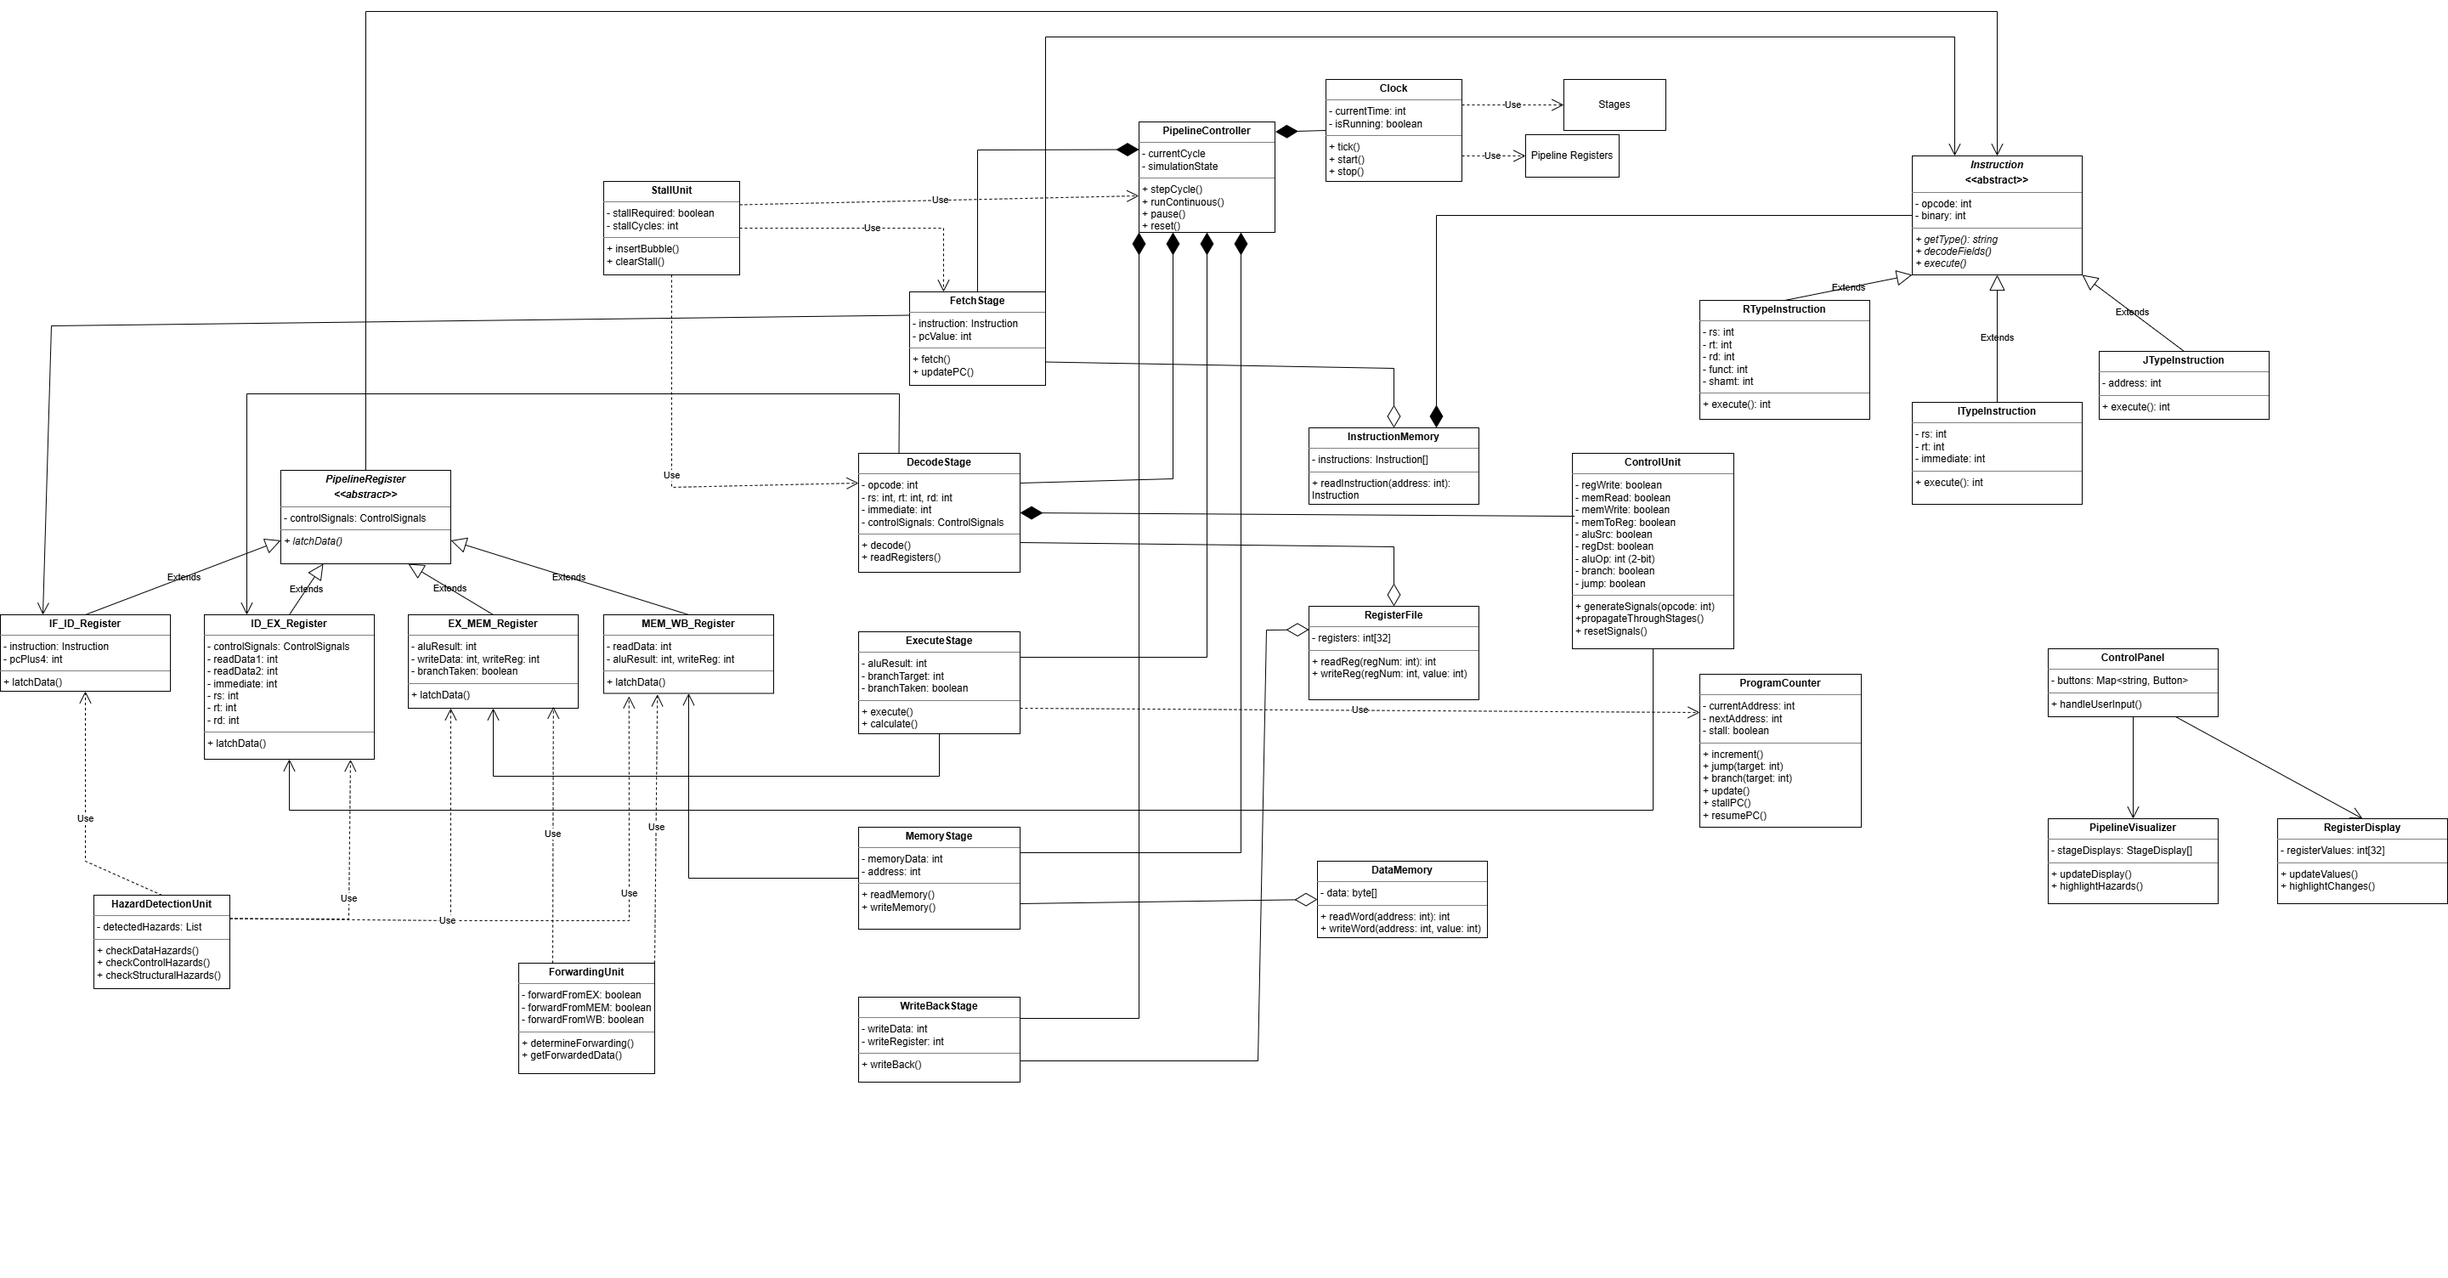
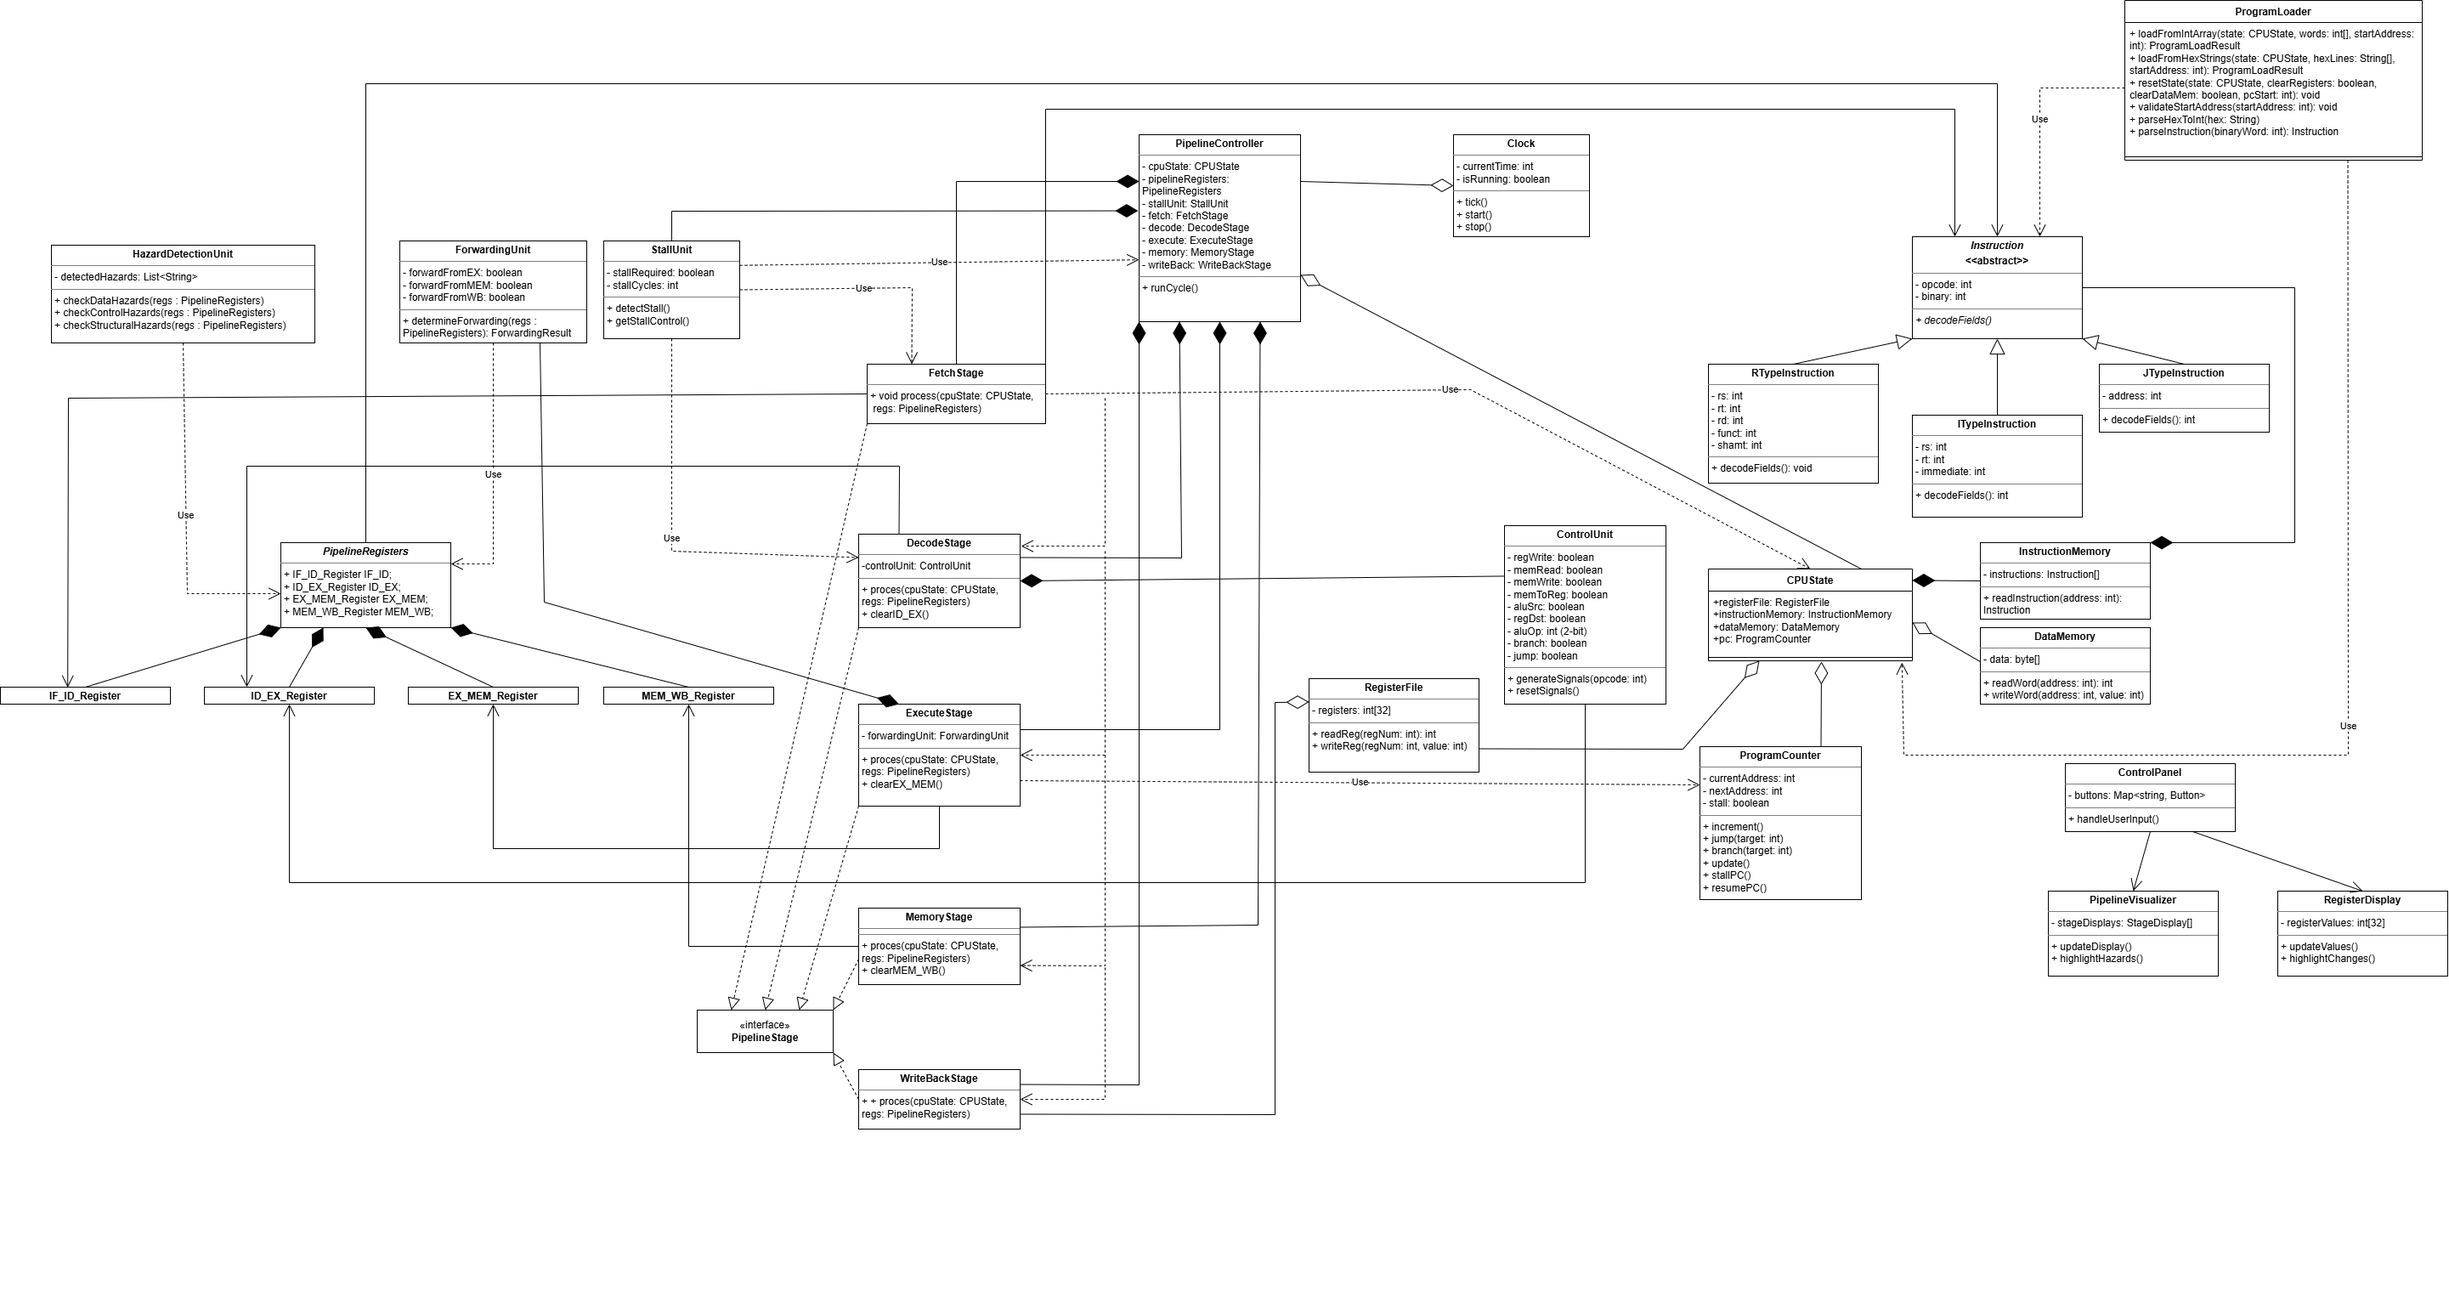
latest updates

diff --git a/Documentation/main.tex b/Documentation/main.tex
@@ -673,7 +673,7 @@ public abstract class Instruction {
 }
 \end{lstlisting}
 
-\subsubsection*{R-Type Instruction}
+\subsection*{R-Type Instruction}
 
 The \textbf{RTypeInstruction} class extracts its fields (two source registers, destination register, shift amount and function code) using bit shifting and masking:
 
@@ -689,7 +689,7 @@ public void decodeFields() {
 }
 \end{lstlisting}
 
-\subsubsection*{I-Type Instruction}
+\subsection*{I-Type Instruction}
 
 The \textbf{ITypeInstruction} class decodes the 16-bit immediate field, ensuring sign-extension where necessary:
 
@@ -704,7 +704,7 @@ public void decodeFields() {
 }
 \end{lstlisting}
 
-\subsubsection*{J-Type Instruction}
+\subsection*{J-Type Instruction}
 
 The \texttt{JTypeInstruction} class simply extracts the target address as:
 
@@ -717,7 +717,7 @@ public void decodeFields() {
 
 \subsection{Memory Subsystem}
 
-\subsubsection*{Instruction Memory}
+\subsection*{Instruction Memory}
 The \textbf{InstructionMemory} class stores and provides access to instruction objects in a fixed-size, word-aligned memory array (4 KB = 1024 words). The class provides methods for accessing the contents:
 \begin{itemize}
     \item Call \textbf{setInstruction(int, Instruction)} to store an instruction at a given address.
@@ -725,7 +725,7 @@ The \textbf{InstructionMemory} class stores and provides access to instruction o
 \end{itemize}
 If an address is outside the valid range (0--4092), \textbf{fetch()} returns \texttt{null} and \textbf{setInstruction()} does nothing.
 
-\subsubsection*{Data Memory}
+\subsection*{Data Memory}
 The \textbf{DataMemory} class provides word-aligned load and store operations for reading and writing 32-bit values through \textbf{loadWord(int)} and \textbf{storeWord(int, int)} methods. Out-of-range addresses are safely ignored:
 \begin{itemize}
     \item \texttt{loadWord(int)} returns 0 for invalid addresses.
@@ -734,11 +734,11 @@ The \textbf{DataMemory} class provides word-aligned load and store operations fo
 
 \subsection{CPU State Components}
 
-\subsubsection*{Register File}
+\subsection*{Register File}
 
 The \textbf{RegisterFile} class models the 32 general-purpose registers in the MIPS CPU through an Integer array. Register 0 (\$zero) is immutable and always holds the value 0. Other registers can be read and written using \textbf{get()} and \textbf{set()} methods.
 
-\subsubsection*{Program Counter}
+\subsection*{Program Counter}
 
 The \textbf{ProgramCounter} class models the program counter (PC) of the processor, tracking the address of the current instruction being executed, and providing additional methods to update it.
 \begin{itemize}
@@ -749,7 +749,7 @@ The \textbf{ProgramCounter} class models the program counter (PC) of the process
     \item An arbitrary offset can be added to the PC using \textbf{addOffset(int offset)}.
 \end{itemize}
 
-\subsubsection*{CPU State}
+\subsection*{CPU State}
 
 The \textbf{CPUState} class acts as a central container for the CPU's state, allowing pipeline stages or simulator code to access and modify registers, memory, and the PC. The instruction memory is provided via the constructor, while the other components are initialized internally.
 \begin{lstlisting}[style=javaStyle]
@@ -767,7 +767,7 @@ public class CPUState {
 
 \subsection{Control Handling}
 
-\subsubsection*{Control Unit}
+\subsection*{Control Unit}
 
 The \textbf{ControlUnit} class implements the control logic designed in Section~\ref{ch:design}. It generates control signals based on the instruction opcode to coordinate data flow and ALU operations for the full instruction set.
 
@@ -784,13 +784,13 @@ The \textbf{ControlUnit} class implements the control logic designed in Section~
     \item \texttt{jump} --- jump instruction
 \end{itemize}
 
-\subsubsection*{Hazard Detection Unit}
+\subsection*{Hazard Detection Unit}
 
 The \textbf{HazardDetectionUnit} implements the hazard detection mechanism described in the design. It monitors the \textbf{PipelineRegisters} to detect data, control, and structural hazards through dedicated methods: \textbf{checkDataHazards(regs)}, \textbf{checkControlHazards(regs)}, \textbf{checkStructuralHazards(regs)}. 
 
 It reports detected hazards through a \textbf{HazardReport} object, which lists all detected conditions and indicates whether stalling or flushing is required. Supporting units such as \textbf{ForwardingUnit} and \textbf{StallUnit} use this information to apply the appropriate solution.
 
-\subsubsection*{Forwarding Unit}
+\subsection*{Forwarding Unit}
 
 The \textbf{ForwardingUnit} resolves data hazards by forwarding results from later pipeline stages to the ALU inputs in the \textbf{EX} stage. It compares the source registers (\texttt{Rs}, \texttt{Rt}) of the instruction in the \textbf{ID/EX} pipeline register with the destination registers of the instructions in the \textbf{EX/MEM} and \textbf{MEM/WB} pipeline registers. 
 
@@ -815,7 +815,7 @@ public static class ForwardingResult {
 }
 \end{lstlisting}
 
-\subsubsection*{Stall Unit}
+\subsection*{Stall Unit}
 
 The \textbf{StallUnit} receives hazard detection signals from the \textbf{HazardDetectionUnit} and issues stall control signals when a \textit{load-use hazard} is detected.
 
@@ -837,7 +837,7 @@ public static class StallControl {
 
 \subsection{Pipeline Representation}
 
-\subsubsection*{Pipeline Stages}
+\subsection*{Pipeline Stages}
 
 The MIPS CPU pipeline is implemented through five concrete classes, each derived from the \textbf{PipelineStage} interface:
 \begin{lstlisting}[style=javaStyle]
@@ -860,7 +860,7 @@ Each stage implements the functionality outlined in Section~\ref{ch:design}:
     \item \textbf{Write Back (WB)} --- Writes the result of an ALU operation or a value loaded from memory back into the register file.
 \end{itemize}
 
-\subsubsection*{Pipeline Registers}
+\subsection*{Pipeline Registers}
 
 The pipeline register classes implement the buffering mechanism between pipeline stages:
 
@@ -896,7 +896,7 @@ The method \textbf{getWriteData()} selects between ALU result and memory data ba
 
 \subsection{The Simulation Engine}
 
-\subsubsection*{Pipeline Controller}
+\subsection*{Pipeline Controller}
 
 The \textbf{PipelineController} implements the central coordination logic for the 5-stage MIPS pipeline, integrating CPU state and pipeline registers to simulate concurrent instruction execution.
 
@@ -927,7 +927,7 @@ The controller processes stages in reverse order (WB $\rightarrow$ MEM $\rightar
     \item \textbf{Control Hazards:} Branch instructions follow a \textit{predict-not-taken} policy. If a branch is taken, the controller flushes \textbf{IF/ID} and \textbf{ID/EX} registers, introducing a two-cycle penalty.
 \end{itemize}
 
-\subsubsection*{Clock}
+\subsection*{Clock}
 
 The \textbf{Clock} class simulates the global clock of the MIPS pipeline, advancing the pipeline cycle by cycle through the \textbf{PipelineController}.
 
@@ -956,13 +956,19 @@ public class Clock {
 The \textbf{tick()} method advances the simulation by one clock cycle, while \textbf{run(int n)} executes multiple cycles in sequence, supporting both step-by-step and continuous execution modes.
 
 \subsection{Program Loading and Instruction Parsing}
+\subsection*{Program Loader}
 
-\subsubsection*{Instruction Factory}
+The \textbf{ProgramLoader} class handles initialization and loading of MIPS programs into instruction memory, supporting multiple input formats:
 
-The \textbf{InstructionFactory} utility class provides centralized parsing of 32-bit binary instruction words into corresponding instruction objects using a factory pattern.
+\begin{itemize}
+    \item \textbf{Integer Array:} Direct 32-bit integer values representing binary instruction words
+    \item \textbf{Hexadecimal Strings:} Text-based hex representation (with or without \texttt{0x} prefix)
+\end{itemize}
 
-\begin{lstlisting}[style=javaStyle]
-public class InstructionFactory {
+Key features include:
+\begin{itemize}
+    \item \textbf{Instruction Parsing:} examines the 6 most significant bits (opcode) to determine instruction format.
+    \begin{lstlisting}[style=javaStyle]
     public static Instruction parseInstruction(int binaryWord) {
         int opcode = (binaryWord >> 26) & 0x3F;
         
@@ -974,27 +980,7 @@ public class InstructionFactory {
             return new ITypeInstruction(opcode, binaryWord);
         }
     }
-}
-\end{lstlisting}
-
-The factory examines the 6 most significant bits (opcode) to determine instruction format:
-\begin{itemize}
-    \item Opcode \texttt{0x00} indicates R-type instruction
-    \item Opcodes \texttt{0x02} or \texttt{0x03} indicate J-type instructions
-    \item All other opcodes indicate I-type instructions
-\end{itemize}
-
-\subsubsection*{Program Loader}
-
-The \textbf{ProgramLoader} class handles initialization and loading of MIPS programs into instruction memory, supporting multiple input formats:
-
-\begin{itemize}
-    \item \textbf{Integer Array:} Direct 32-bit integer values representing binary instruction words
-    \item \textbf{Hexadecimal Strings:} Text-based hex representation (with or without \texttt{0x} prefix)
-\end{itemize}
-
-Key features include:
-\begin{itemize}
+    \end{lstlisting}
     \item \textbf{Address Validation:} Ensures instruction addresses are word-aligned and within memory bounds
     \item \textbf{Bounds Checking:} Prevents loading instructions beyond memory capacity
     \item \textbf{Warning System:} Collects warnings for out-of-bounds instructions without failing the load operation
@@ -1023,41 +1009,44 @@ The \textbf{ProgramLoadResult} class encapsulates load operation outcomes:
     \item List of warnings generated during loading
 \end{itemize}
 
-\begin{comment}
 \subsection{API Server and Frontend Integration}
 
-To enable web-based interaction with the simulator, a lightweight HTTP API server was implemented using Java's built-in \texttt{HttpServer}. This API provides a RESTful interface for controlling the simulation and querying CPU state.
+To enable web-based interaction with the simulator, a lightweight HTTP API server was implemented using Java's built-in \textbf{HttpServer}. This API provides a RESTful interface for controlling the simulation and querying CPU state.
 
-\subsubsection*{API Architecture}
+\subsection*{API Architecture}
 
-The \textbf{ApiServer} class manages HTTP request handling and coordinates between the simulation engine and external clients. It maintains references to the \texttt{CPUState}, \texttt{PipelineController}, and \texttt{Clock} instances, ensuring a single source of truth for the simulation state.
+The \textbf{ApiServer} class manages HTTP request handling and coordinates between the simulation engine and external clients. It maintains references to the \textbf{HttpServer} object and \textbf{ServerContext}.
 
 \begin{lstlisting}[style=javaStyle]
 public class ApiServer {
     private final HttpServer server;
-    private final CPUState cpuState;
-    private final PipelineController controller;
-    private final Clock clock;
-
+    private final ServerContext context;
+    
     public ApiServer(int port) throws IOException {
-        this.cpuState = new CPUState(new InstructionMemory());
-        this.controller = new PipelineController(cpuState);
-        this.clock = new Clock(controller);
-        
-        this.server = HttpServer.create(new InetSocketAddress(port), 0);
-        // Register API endpoints
-        server.createContext("/api/load", new LoadHandler());
-        server.createContext("/api/step", new StepHandler());
-        server.createContext("/api/state", new StateHandler());
-        server.createContext("/api/reset", new ResetHandler());
-        server.createContext("/api/health", new HealthHandler());
-    }
+		CPUState cpuState = new CPUState(new InstructionMemory());
+		PipelineController controller = new PipelineController(cpuState);
+		Clock clock = new Clock(controller);
+		this.context = new ServerContext(cpuState, controller, clock);
+
+		this.server = HttpServer.create(new InetSocketAddress(port), 0);
+
+		server.createContext("/api/load", new LoadHandler(context));
+		server.createContext("/api/step", new StepHandler(context));
+		server.createContext("/api/state", new StateHandler(context));
+		server.createContext("/api/reset", new ResetHandler(context));
+		server.createContext("/api/health", new HealthHandler());
+
+		server.setExecutor(null);
+	}
 }
 \end{lstlisting}
 
-\subsubsection*{API Endpoints}
+\subsection*{Server Context}
+The \textbf{ServerContext} class wraps the \textbf{CPUState}, \textbf{PipelineController}, and \textbf{Clock} instances to maintain a single source of information during the simulation. It can be said that the core of the simulator is kept here.
 
-The API exposes five main endpoints:
+\subsection*{API Endpoints}
+
+The API exposes five main endpoints, each taken care of by a handler class— \textbf{LoadHandler}, \textbf{StepHandler}, \textbf{StateHandler}, \textbf{ResetHandler}, \textbf{HealthHandler}:
 
 \begin{enumerate}
     \item \textbf{POST /api/load} --- Loads a program into instruction memory
@@ -1095,7 +1084,7 @@ The API exposes five main endpoints:
     \end{itemize}
 \end{enumerate}
 
-\subsubsection*{Cross-Origin Resource Sharing (CORS)}
+\subsection*{Cross-Origin Resource Sharing (CORS)}
 
 The API server implements CORS headers to allow web-based frontends running on different origins to communicate with the simulator. All endpoints include the following headers:
 
@@ -1105,9 +1094,9 @@ The API server implements CORS headers to allow web-based frontends running on d
     \item \texttt{Access-Control-Allow-Headers: Content-Type}
 \end{itemize}
 
-This enables frontend applications hosted separately from the backend to make API requests without browser security restrictions.
+This enables the frontend application, hosted separately from the backend to make API requests without browser security restrictions. 
 
-\subsubsection*{State Serialization}
+\subsection*{State Serialization}
 
 The \textbf{StateSerializer} class converts the internal CPU and pipeline state into JSON format for transmission to the frontend. This serialization process:
 
@@ -1138,7 +1127,7 @@ The serialized state enables the frontend to:
     \item Highlight data dependencies and hazards
 \end{itemize}
 
-\subsubsection*{Error Handling}
+\subsection*{Error Handling}
 
 The API implements robust error handling:
 \begin{itemize}
@@ -1148,8 +1137,7 @@ The API implements robust error handling:
     \item Exceptions are caught and returned as JSON error responses
 \end{itemize}
 
-This design ensures that the frontend receives meaningful error messages and can gracefully handle exceptional conditions during simulation.
-\end{comment}
+This design ensures that the frontend receives meaningful error messages and can handle any conditions that may arise during simulation.
 
 \printbibliography
 \nocite{*}

diff --git a/Simulator-Backend/src/simulator/api/ApiServer.java b/Simulator-Backend/src/simulator/api/ApiServer.java
@@ -32,7 +32,7 @@ public class ApiServer {
 		server.createContext("/api/reset", new ResetHandler(context));
 		server.createContext("/api/health", new HealthHandler());
 
-		server.setExecutor(null); 
+		server.setExecutor(null);
 	}
 
 	public void start() {
